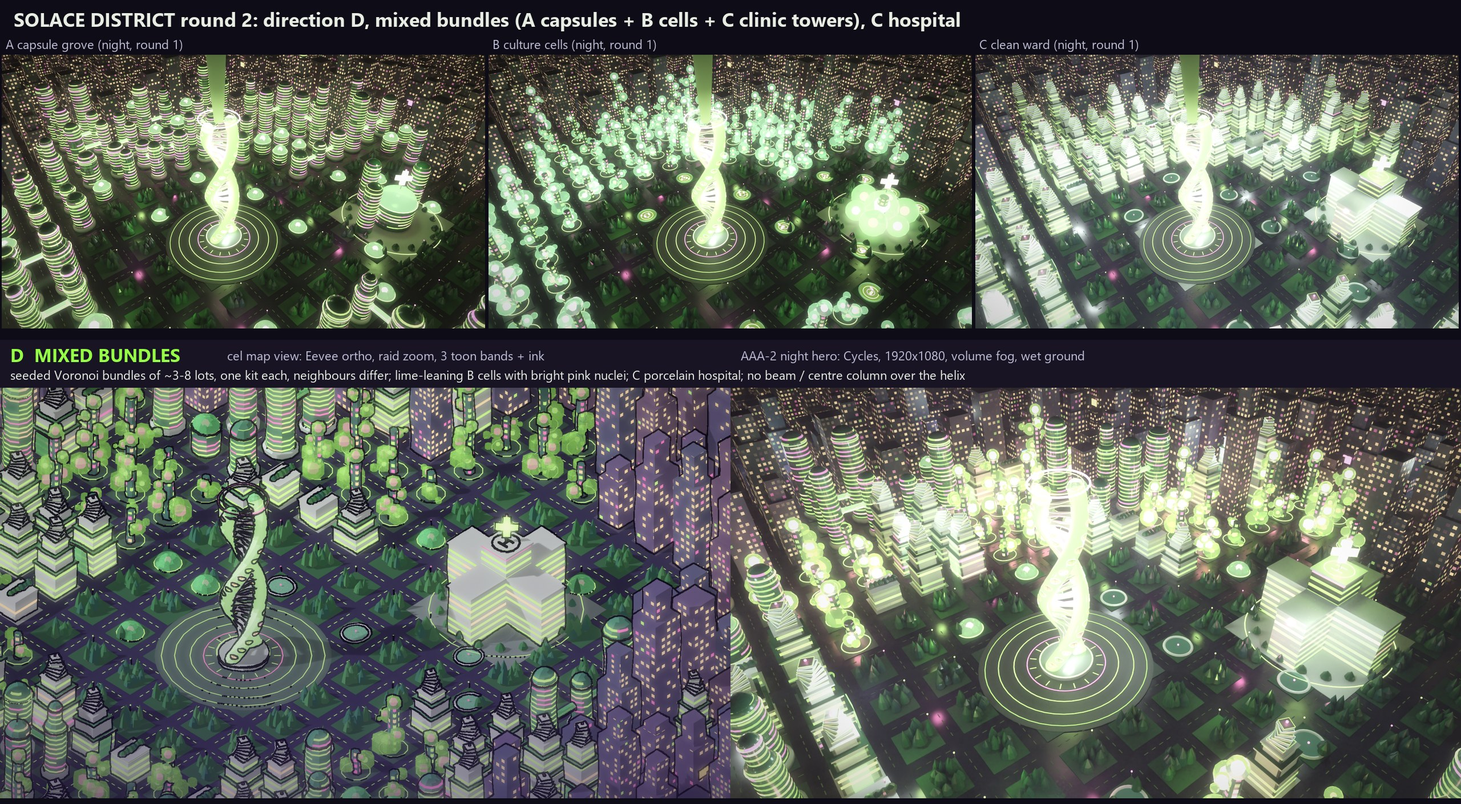
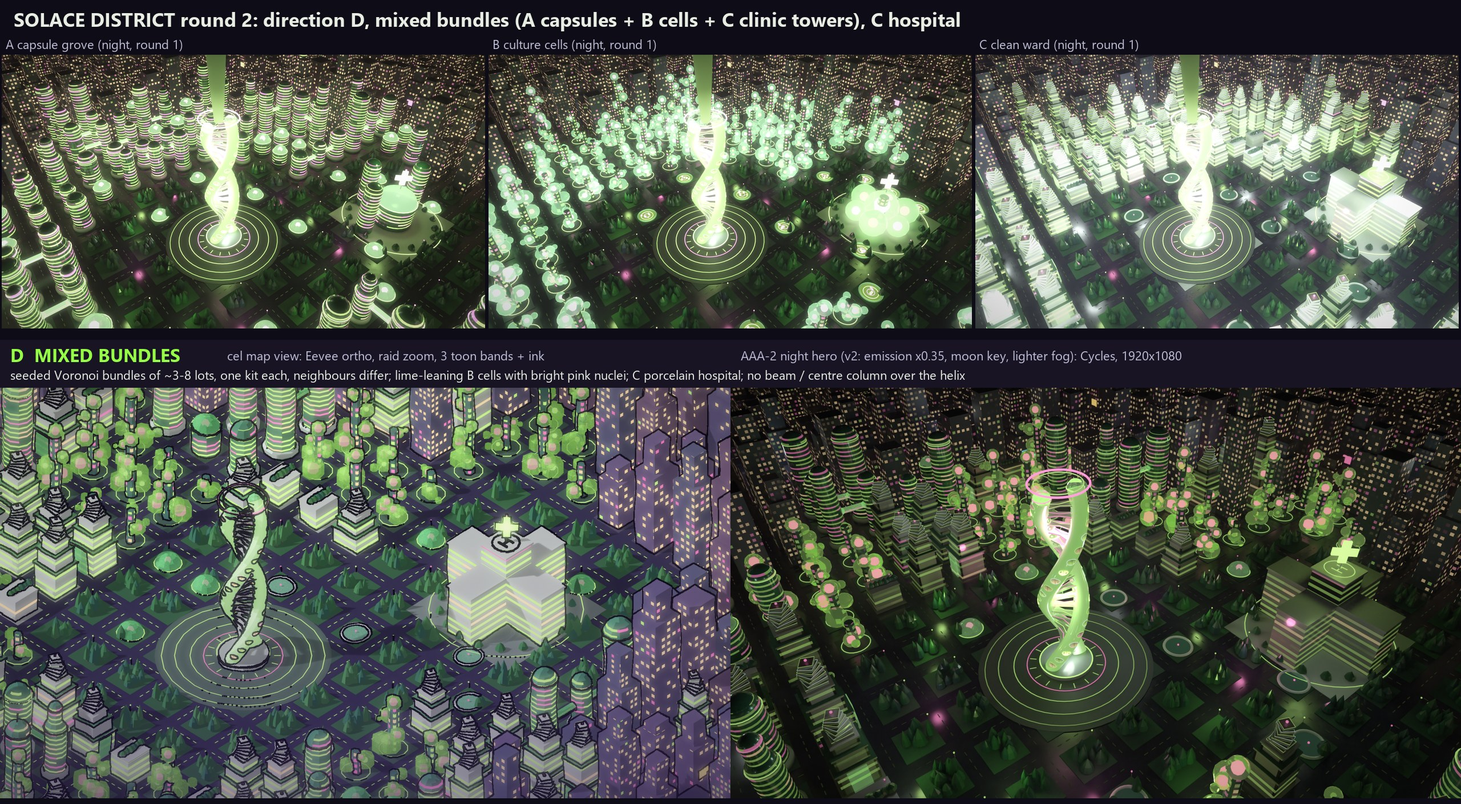
Solace vertical: district D night re-lit so the forms read (median 0.368 -> 0.141, clipped 7.7 % -> 0.3 %)

Changed region(s): [[0.5, 0.4369, 1.0, 0.9986]]

diff --git a/docs/concepts/solace_vertical/district/scripts/sd_main.py b/docs/concepts/solace_vertical/district/scripts/sd_main.py
@@ -25,6 +25,17 @@ W, H = [int(x) for x in A["size"].split("x")]
 CEL = MODE in ("map", "ink")
 L.Z_FLAT = CEL
 SEED = int(A["seed"])
+N2 = (DIR == "D" and MODE == "night" and A.get("n2", "1") == "1")      # round-2 night fix: darker, shaded, readable forms
+L.EMIT_K = 0.35 if N2 else 1.0
+
+
+def ekw(v):
+    return {"ek": v} if N2 else {}
+
+
+MOON = float(A.get("moon", "1.6"))
+SKY = float(A.get("sky", "1.0"))
+EXPO = float(A.get("expo", "0.0"))
 
 LIME = (0.588, 1.0, 0.275)
 PINKC = (1.0, 0.275, 0.588)
@@ -66,18 +77,19 @@ def mats():
     if DIR == "D":
         M["twC"] = L.make_material("twC", "win", MODE, cw=100.0, ch=3.6, win=(0.0, 1.0, 0.18, 0.58), strength=1.4, rough=0.18, metal=0.0, bands=bands, coat=0.9)
     M["plain"] = L.make_material("plain", "win", MODE, plain=True, rough=0.25, metal=0.0, bands=bands, coat=0.8 if DIR == "C" else (0.5 if DIR == "D" else 0.2))
-    M["tube"] = L.make_material("tube", "win", MODE, plain=True, rough=0.2, coat=0.8, bands=bands, glow=((0.40, 0.95, 0.18), 0.55, 1.7))
-    M["ord"] = L.make_material("ord", "win", MODE, cw=3.4, ch=3.8, win=(0.2, 0.75, 0.25, 0.7), strength=1.5, rough=0.45, bands=bands)
-    M["ordr"] = L.make_material("ordr", "win", MODE, cw=2.6, ch=3.0, win=(0.22, 0.78, 0.2, 0.7), strength=1.5, rough=0.45, bands=bands)
+    M["tube"] = L.make_material("tube", "win", MODE, plain=True, rough=0.2, coat=0.8, bands=bands, glow=((0.40, 0.95, 0.18), 0.55, 1.7), **ekw(0.6))
+    M["ord"] = L.make_material("ord", "win", MODE, cw=3.4, ch=3.8, win=(0.2, 0.75, 0.25, 0.7), strength=1.5, rough=0.45, bands=bands, **ekw(0.55))
+    M["ordr"] = L.make_material("ordr", "win", MODE, cw=2.6, ch=3.0, win=(0.22, 0.78, 0.2, 0.7), strength=1.5, rough=0.45, bands=bands, **ekw(0.55))
     M["glass"] = L.make_material("glass", "glass", MODE, strength=0.9, alpha=0.74, trans=0.92, bands=bands)
     M["glassB"] = L.make_material("glassB", "glass", MODE, strength=0.5, alpha=0.5, trans=0.97, bands=bands, cel_strength=0.3)
     M["glassb"] = L.make_material("glassb", "glass", MODE, strength=0.5, alpha=0.5, trans=0.97, bands=bands)
     M["neon"] = L.make_material("neon", "neon", MODE, strength=5.0 if not CEL else 1.0)
-    M["neon_p"] = L.make_material("neon_p", "neon", MODE, strength=34.0 if not CEL else 1.0)
-    M["neon_s"] = L.make_material("neon_s", "neon", MODE, strength=9.0 if not CEL else 1.0)
+    M["neon_p"] = L.make_material("neon_p", "neon", MODE, strength=34.0 if not CEL else 1.0, **ekw(0.07))
+    M["neon_l"] = L.make_material("neon_l", "neon", MODE, strength=5.0 if not CEL else 1.0, **ekw(0.16))
+    M["neon_s"] = L.make_material("neon_s", "neon", MODE, strength=9.0 if not CEL else 1.0, **ekw(0.3))
     M["ground"] = L.make_material("ground", "ground", MODE, bands=bands)
-    M["hwin"] = L.make_material("hwin", "hwin", MODE, strength=3.0)
-    M["hwin_n"] = L.make_material("hwin_n", "hwin", MODE, strength=11.0)
+    M["hwin"] = L.make_material("hwin", "hwin", MODE, strength=3.0, **ekw(0.55))
+    M["hwin_n"] = L.make_material("hwin_n", "hwin", MODE, strength=11.0, **ekw(0.55))
     return M
 
 
@@ -156,7 +168,7 @@ PLAN = plan()
 
 # ------------------------------------------------------------------ ground, streets, pads
 PAD_COL = {"A": (0.03, 0.075, 0.05), "B": (0.035, 0.07, 0.07), "C": (0.50, 0.54, 0.52), "D": (0.03, 0.075, 0.05)}[DIR]
-PAD_C = (0.50, 0.54, 0.52)
+PAD_C = (0.50, 0.54, 0.52) if not N2 else (0.16, 0.15, 0.14)
 if CEL:
     PAD_COL = {"A": (0.09, 0.17, 0.14), "B": (0.10, 0.17, 0.17), "C": (0.60, 0.66, 0.64), "D": (0.09, 0.17, 0.14)}[DIR]
     PAD_C = (0.60, 0.66, 0.64)
@@ -418,7 +430,7 @@ def kit_B(i, j, p):
         if rr.random() < 0.45:
             sphere(mb(NU), sx, sy, sz, rad * NR, 7, PINKC, (1.0 if not CEL else 1, 0, 0, 1))
         elif rr.random() < 0.5:
-            sphere(mb("neon"), sx, sy, sz, rad * 0.30, 7, LIME, (0.9 if not CEL else 1, 0, 0, 1))
+            sphere(mb("neon_l" if D else "neon"), sx, sy, sz, rad * 0.30, 7, LIME, (0.9 if not CEL else 1, 0, 0, 1))
         if rr.random() < 0.5:        # a daughter cell budding off, half the radius, just touching
             a2 = ang + (rr.random() - 0.5) * 1.6
             r2 = rad * 0.55
@@ -435,6 +447,8 @@ def kit_C(i, j, p):
     cx, cy, h = p["x"], p["y"], p["h"]
     seed = rr.random()
     porc = (0.80, 0.83, 0.80) if not CEL else (0.88, 0.92, 0.90)
+    if N2:
+        porc = (0.34, 0.32, 0.29)
     glassg = porc
     prmw = pr(0.86, 0.9, 0.04, seed)
     if p["sub"] < 0.22:            # low clinic wing: white block, one green band, roof garden
@@ -669,6 +683,8 @@ def hospital():
     hx, hy = 4.5 * PITCH, -2.5 * PITCH
     n = sd(28)
     porc = (0.80, 0.84, 0.81) if not CEL else (0.88, 0.92, 0.90)
+    if N2:
+        porc = (0.34, 0.32, 0.29)
     # helipad
     def helipad(x, y, z, r):
         torus(mb("neon"), x, y, z, r, 0.2, n, 4, LIME, (1.0 if not CEL else 1, 0, 0, 1))
@@ -769,9 +785,9 @@ def world():
         ramp.color_ramp.elements[1].color = (0.02, 0.015, 0.05, 1)
         bg.inputs[1].default_value = 1.0
     else:
-        ramp.color_ramp.elements[0].color = (0.035, 0.022, 0.07, 1)
+        ramp.color_ramp.elements[0].color = ((0.035, 0.022, 0.07, 1) if not N2 else (0.07 * SKY, 0.07 * SKY, 0.16 * SKY, 1))
         ramp.color_ramp.elements[0].position = 0.0
-        ramp.color_ramp.elements[1].color = (0.002, 0.003, 0.010, 1)
+        ramp.color_ramp.elements[1].color = ((0.002, 0.003, 0.010, 1) if not N2 else (0.018 * SKY, 0.026 * SKY, 0.06 * SKY, 1))
         ramp.color_ramp.elements[1].position = 0.5
         bg.inputs[1].default_value = 1.0
     nt.links.new(ramp.outputs[0], bg.inputs[0])
@@ -779,7 +795,7 @@ def world():
     if not CEL:
         vol = nt.nodes.new("ShaderNodeVolumePrincipled")
         vol.inputs["Color"].default_value = (0.55, 0.45, 0.8, 1)
-        vol.inputs["Density"].default_value = 0.00038
+        vol.inputs["Density"].default_value = 0.00038 if not N2 else 0.00018
         vol.inputs["Anisotropy"].default_value = 0.35
         nt.links.new(vol.outputs[0], out.inputs[1])
 
@@ -789,8 +805,10 @@ def lights():
         add_light("SUN", (0, 0, 300), (0.78, 0.80, 1.0), 2.6, rot=(math.radians(52), 0, math.radians(-125)), angle=0.02)
         add_light("SUN", (0, 0, 300), (0.9, 0.4, 0.8), 0.5, rot=(math.radians(60), 0, math.radians(60)), angle=0.02)
         return
-    add_light("SUN", (0, 0, 300), (0.55, 0.6, 1.0), 0.28, rot=(math.radians(58), 0, math.radians(-125)), angle=0.04)
-    add_light("POINT", (0, 0, 40), LIME, 6e4, size=6)
+    add_light("SUN", (0, 0, 300), (0.55, 0.6, 1.0), 0.28 if not N2 else MOON, rot=(math.radians(58), 0, math.radians(-125)), angle=0.04)
+    if N2:
+        add_light("SUN", (0, 0, 300), (0.75, 0.55, 0.95), 0.35 * MOON / 1.6, rot=(math.radians(55), 0, math.radians(55)), angle=0.1)
+    add_light("POINT", (0, 0, 40), LIME, 6e4 if not N2 else 3.5e4, size=6)
     add_light("POINT", (0, 0, 70), (1.0, 0.3, 0.6), 3e4, size=6)
     add_light("POINT", (0, 0, 8), (0.9, 1.0, 0.9), 1.2e4, size=4)
     hx, hy = 4.5 * PITCH, -2.5 * PITCH
@@ -805,7 +823,7 @@ def lights():
     if D:
         for (gi, gj, x, y) in BUNDLE_SEEDS:
             if BUNDLE_KIT[(gi, gj)] == "C":
-                add_light("POINT", (x * PITCH, y * PITCH, 38), (0.85, 1.0, 0.95), 5e4, size=4)
+                add_light("POINT", (x * PITCH, y * PITCH, 38), (0.85, 1.0, 0.95), 5e4 if not N2 else 1.2e4, size=4)
     rr = random.Random(3)
     for k in range(14):
         a = 2 * math.pi * k / 14 + 0.2
@@ -874,7 +892,7 @@ scene.render.filepath = out_path
 try:
     scene.view_settings.view_transform = "Standard"
     scene.view_settings.look = "None"
-    scene.view_settings.exposure = -0.6 if not CEL else 0.0
+    scene.view_settings.exposure = (-0.6 if not N2 else EXPO) if not CEL else 0.0
 except Exception as e:
     print("view transform", e)
 

diff --git a/docs/concepts/solace_vertical/district/scripts/sd_lib.py b/docs/concepts/solace_vertical/district/scripts/sd_lib.py
@@ -6,6 +6,7 @@ Geometry goes into per-material mesh builders (MB). Every vertex carries three p
 import math
 import bpy
 
+EMIT_K = 1.0          # night emission multiplier (round 2 night fix)
 Z_FLAT = False          # set by the main script: flat shading everywhere in the cel map
 
 
@@ -346,7 +347,7 @@ def make_material(name, kind, mode, **o):
         e = nb.node("ShaderNodeEmission")
         nb.link(colN.outputs["Color"], e.inputs[0])
         e.inputs[1].default_value = o.get("strength", 6.0) * (0.35 if cel and False else 1.0)
-        nb.val(e.inputs[1], nb.m("MULTIPLY", pr, o.get("strength", 6.0)))
+        nb.val(e.inputs[1], nb.m("MULTIPLY", pr, o.get("strength", 6.0) * o.get("ek", EMIT_K)))
         nb.link(e.outputs[0], out.inputs[0])
         return mat
 
@@ -397,7 +398,7 @@ def make_material(name, kind, mode, **o):
         bsdf.inputs["Transmission Weight"].default_value = o.get("trans", 0.9)
         bsdf.inputs["IOR"].default_value = 1.2
         nb.link(colN.outputs["Color"], bsdf.inputs["Emission Color"])
-        nb.val(bsdf.inputs["Emission Strength"], nb.m("MULTIPLY", pr, o.get("strength", 2.0)))
+        nb.val(bsdf.inputs["Emission Strength"], nb.m("MULTIPLY", pr, o.get("strength", 2.0) * o.get("ek", EMIT_K)))
         nb.link(bsdf.outputs[0], out.inputs[0])
         return mat
 
@@ -411,7 +412,7 @@ def make_material(name, kind, mode, **o):
         mull = nb.m("SUBTRACT", 1.0, nb.m("MULTIPLY", nb.m("LESS_THAN", nb.m("ABSOLUTE", nb.m("SUBTRACT", u, 0.5)), 0.018), 0.85))
         wcol = nb.mix(nb.mix(WARM, LIME, pg), PINK, pb)
         emc = nb.mulc(wcol, nb.comb(1.0, 1.0, 1.0))
-        strength = nb.m("MULTIPLY", nb.m("MULTIPLY", grad, mull), nb.m("MULTIPLY", pr, o.get("strength", 6.0)))
+        strength = nb.m("MULTIPLY", nb.m("MULTIPLY", grad, mull), nb.m("MULTIPLY", pr, o.get("strength", 6.0) * o.get("ek", EMIT_K)))
         if cel:
             e = nb.node("ShaderNodeEmission")
             nb.link(wcol, e.inputs[0])
@@ -453,7 +454,7 @@ def make_material(name, kind, mode, **o):
         mask = 0.0
     if o.get("dbg"):
         mask = {"inx": inx, "iny": iny, "lit": lit, "vert": vert, "n1": n1, "one": 1.0, "fy": fy, "vy": vy}[o["dbg"]]
-    S = o.get("strength", 5.0)
+    S = o.get("strength", 5.0) * o.get("ek", EMIT_K)
     glow = o.get("glow")
     if cel:
         c = _toon(nb, base, bands)
@@ -493,7 +494,7 @@ def make_material(name, kind, mode, **o):
         bsdf.inputs["Coat Roughness"].default_value = 0.05
     if glow:
         bsdf.inputs["Emission Color"].default_value = glow[0] + (1.0,)
-        bsdf.inputs["Emission Strength"].default_value = glow[2]
+        bsdf.inputs["Emission Strength"].default_value = glow[2] * o.get("ek", EMIT_K)
     else:
         nb.link(wcol, bsdf.inputs["Emission Color"])
         nb.val(bsdf.inputs["Emission Strength"], nb.m("MULTIPLY", nb.m("MULTIPLY", mask, flick), S))

diff --git a/docs/concepts/solace_vertical/district/scripts/sheet_r2.py b/docs/concepts/solace_vertical/district/scripts/sheet_r2.py
@@ -22,7 +22,7 @@ y = y0 + 36 + th + 20
 d.rectangle((0, y, W, y + 84), fill=(24, 20, 36))
 d.text((18, y + 4), "D  MIXED BUNDLES", font=font(32, True), fill=LIME)
 d.text((18 + 380, y + 12), "cel map view: Eevee ortho, raid zoom, 3 toon bands + ink", font=font(22), fill=(190, 190, 215))
-d.text((CW + 18, y + 12), "AAA-2 night hero: Cycles, 1920x1080, volume fog, wet ground", font=font(22), fill=(190, 190, 215))
+d.text((CW + 18, y + 12), "AAA-2 night hero (v2: emission x0.35, moon key, lighter fog): Cycles, 1920x1080", font=font(22), fill=(190, 190, 215))
 d.text((18, y + 46), "seeded Voronoi bundles of ~3-8 lots, one kit each, neighbours differ; lime-leaning B cells with bright pink nuclei; C porcelain hospital; no beam / centre column over the helix", font=font(22), fill=FG)
 for c, nm in enumerate(("map", "night")):
     im = Image.open(os.path.join(D, "D_%s.png" % nm)).convert("RGB").resize((CW, CH), Image.LANCZOS)

diff --git a/docs/concepts/solace_vertical/district/scripts/post.py b/docs/concepts/solace_vertical/district/scripts/post.py
@@ -29,7 +29,8 @@ if mode == "map":
     out = out * (1 - k) + hz * k
 else:
     m = np.clip((lum - 0.65) * 3.0, 0, 1)[..., None]
-    g = blur(a * m, W / 200.0) * 0.8 + blur(a * m, W / 55.0) * 0.5
+    bk = float(sys.argv[4]) if len(sys.argv) > 4 else 1.0
+    g = (blur(a * m, W / 200.0) * 0.8 + blur(a * m, W / 55.0) * 0.5) * bk
     out = 1 - (1 - a) * (1 - np.clip(g, 0, 1) * 0.6)
 yy, xx = np.mgrid[0:H, 0:W]
 d = np.sqrt(((xx - W / 2) / (W / 2)) ** 2 + ((yy - H / 2) / (H / 2)) ** 2)

diff --git a/docs/concepts/solace_vertical/district/scripts/stats.py b/docs/concepts/solace_vertical/district/scripts/stats.py
@@ -1,0 +1,7 @@
+import sys
+import numpy as np
+from PIL import Image
+for p in sys.argv[1:]:
+    a = np.asarray(Image.open(p).convert("RGB")).astype(np.float32) / 255.0
+    l = 0.2126 * a[..., 0] + 0.7152 * a[..., 1] + 0.0722 * a[..., 2]
+    print("%s median %.3f mean %.3f  >0.95: %.2f%%  >0.85: %.2f%%  <0.05: %.1f%%" % (p, np.median(l), l.mean(), (l > 0.95).mean() * 100, (l > 0.85).mean() * 100, (l < 0.05).mean() * 100))

diff --git a/docs/concepts/solace_vertical/district/NOTES.md b/docs/concepts/solace_vertical/district/NOTES.md
@@ -55,3 +55,17 @@ Files: `D_map.png`, `D_night.png` (1920x1080), `sheet_r2.jpg` (A/B/C night thumb
 - **Helix fix**: the beam mesh (`helix_beam()`) is off for every direction now (`BEAM = False`); it read as a dark solid column on the map and a solid in Cycles. No light-shaft replacement: with the current fog density a spot shaft would not read as light. Re-rendering A/B/C with the current script therefore gives them no beam either (their round-1 PNGs keep it).
 - **Rebuild**: `scripts/run_d.sh` (GPU lock; map raw, id pass, night), then `ink.py out/D_map_raw.png out/D_ink.png out/D_map_inked.png 2.6`, `post.py map ...`, `post.py night ...`, `sheet_r2.py <this folder> sheet_r2.jpg`.
 - **Times** (1920x1080): map Eevee 7.6 s + id pass 1.3 s; night Cycles 87 s (72 spp adaptive, OIDN), about 2.3 min wall for the whole batch.
+
+### Round 2b: D night fix (too bright, forms lost)
+`D_night.png` re-rendered with `--dir D --mode night` (on by default for D night; `--n2 0` reproduces the first D night, kept as `D_night_r2a_bright.png`). Same camera and layout. Changes, all gated on `N2` in `sd_main.py`:
+- Emission x0.35 everywhere (`sd_lib.EMIT_K`: windows, ribbons, clinic bands, glass, rings); ordinary-city windows and the helix windows/skin x0.55-0.6 (helix stays the brightest). Pink nuclei: `neon_p` x0.07 (they were clipping to white), lime nuclei `neon_l` x0.16, rungs/halo `neon_s` x0.3.
+- Cool moon sun 0.28 -> 1.7 plus a faint violet counter-sun 0.35, brighter blue sky (horizon 0.07/0.07/0.16, zenith 0.018/0.026/0.06), exposure -0.6 -> -1.15, fog density 0.00038 -> 0.00018, helix lime point light 6e4 -> 3.5e4, C fill lights 5e4 -> 1.2e4, post bloom x0.35 (`post.py night in out 0.35`).
+- C porcelain (towers, hospital) 0.80/0.83/0.80 -> warm grey 0.34/0.32/0.29; C pads 0.50 -> 0.16.
+| 1920x1080 final, sRGB luma | before | after |
+|---|---|---|
+| median | 0.368 | 0.141 |
+| mean | 0.469 | 0.210 |
+| > 0.95 (clipped) | 7.73 % | 0.29 % |
+| > 0.85 | 15.53 % | 0.74 % |
+| < 0.05 | 0.0 % | 5.8 % |
+Render 250 s (72 spp adaptive, OIDN; slower than before because more indirect light now matters). Tuning previews at 640x360 on CPU (`scripts/stats.py` prints the numbers).
